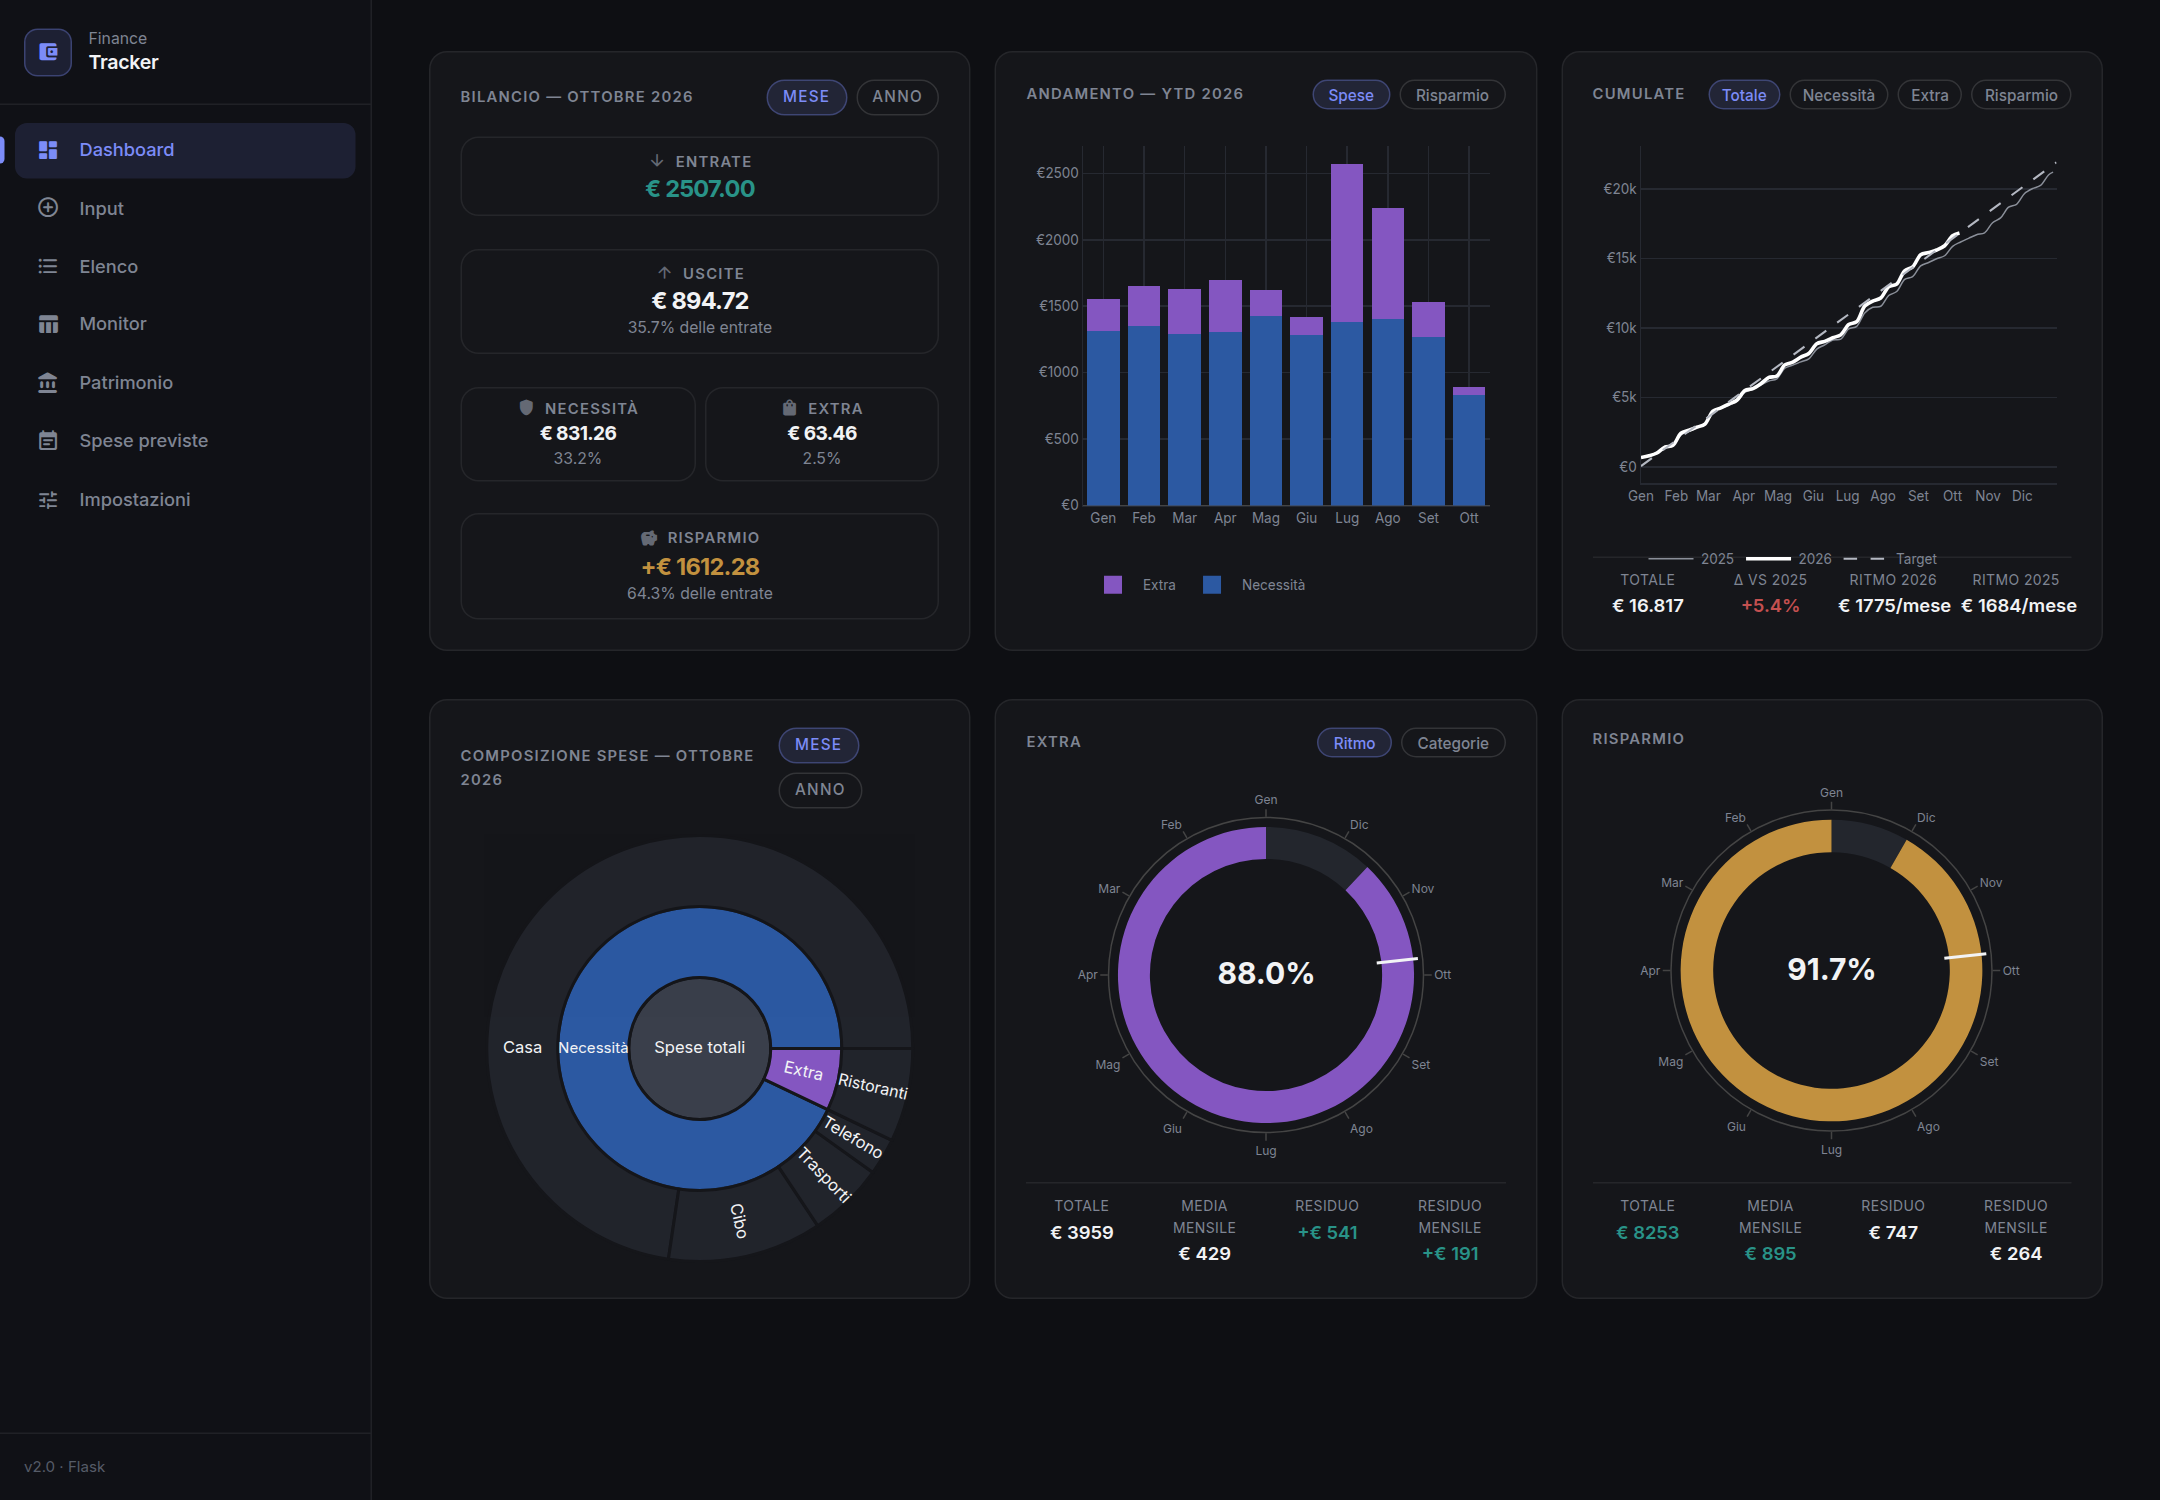
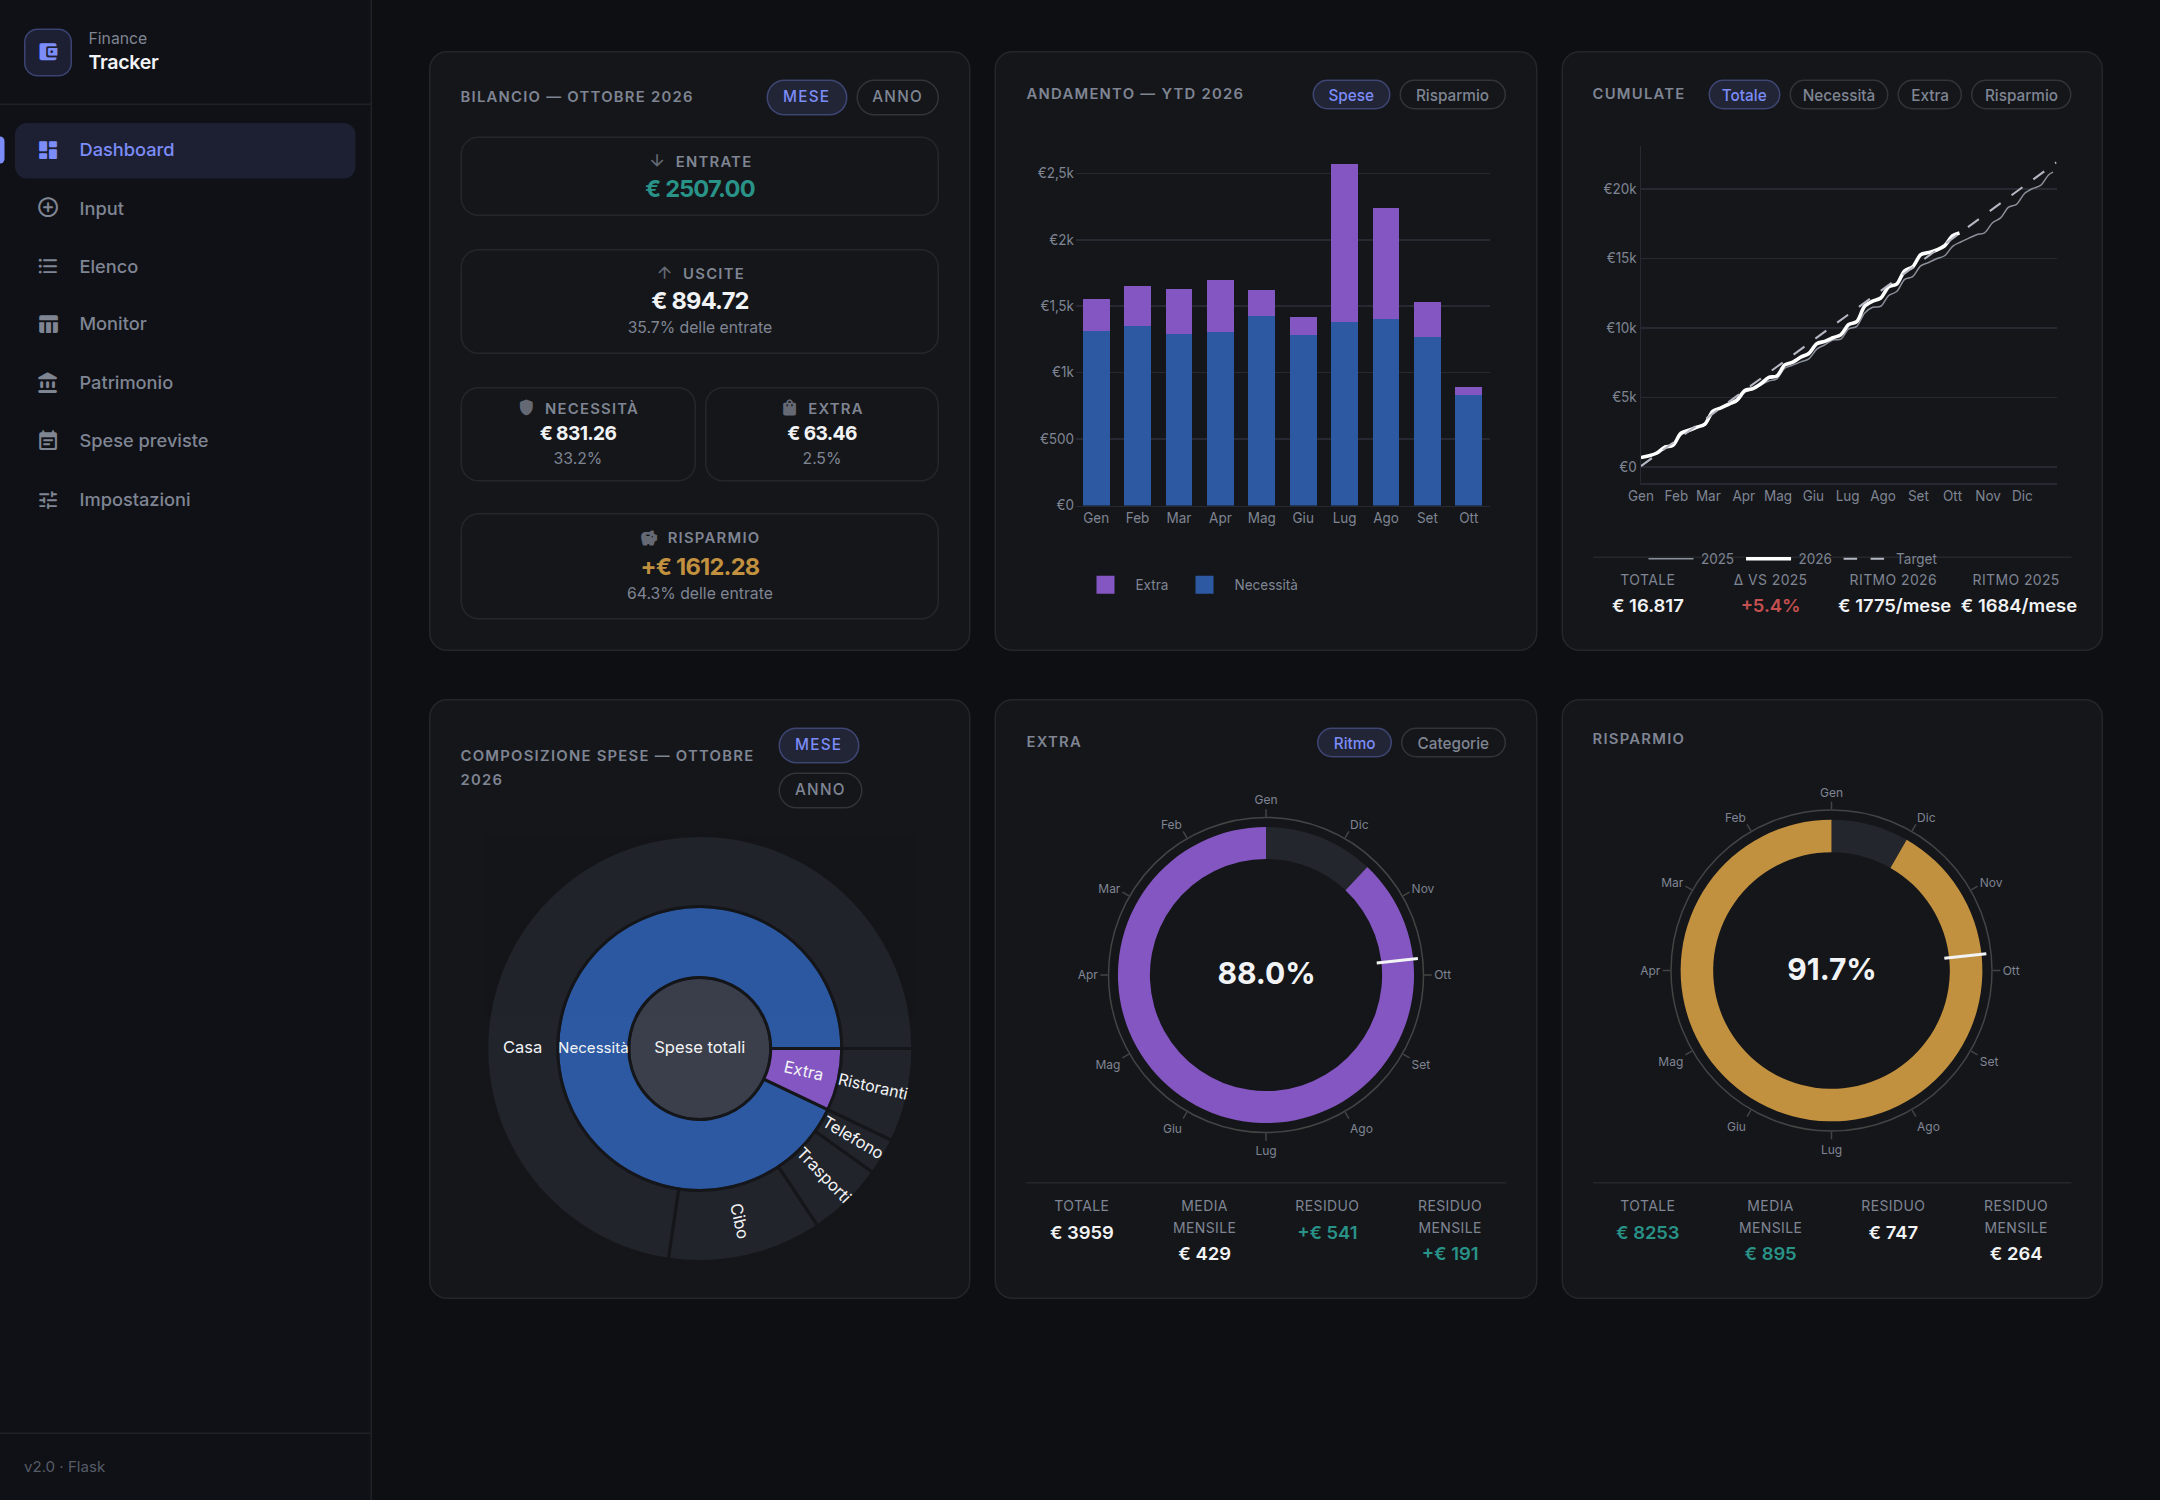
Dashboard: grafici Andamento (spese e risparmio) ed Extra › Categorie nello stile moderno e fisso della cumulata

Changed region(s): [[0.4963, 0.1227, 0.6824, 0.3987]]

diff --git a/templates/dashboard.html b/templates/dashboard.html
@@ -199,6 +199,12 @@ const BASE = {
     hovermode: 'x unified', hoverlabel: HOVER_STYLE,
 };
 
+// Grafici "fissi" in stile moderno (come la cumulata): niente zoom/pan, niente linee verticali,
+// assi senza tacche, valori compatti, nomi dei mesi in italiano.
+const STATIC_CFG = { responsive: true, displayModeBar: false, scrollZoom: false, doubleClick: false, locale: 'it' };
+const MESI_FULL = ['Gennaio','Febbraio','Marzo','Aprile','Maggio','Giugno','Luglio','Agosto','Settembre','Ottobre','Novembre','Dicembre'];
+const eurRound = v => '€ ' + Math.round(v).toLocaleString('it-IT');
+
 {% if sunburst.has_data %}
 // ── 1. Sunburst (solo spese) ─────────────────────────────────────────
 const su = {{ sunburst.sunburst_data|safe }};
@@ -306,16 +312,20 @@ function drawExtraCat() {
         el.innerHTML = '<div class="empty-state"><span class="material-icons-round">inbox</span>Nessuna spesa extra quest\'anno.</div>';
         return;
     }
+    // Barre orizzontali con il valore a fine barra, senza asse x né griglia (il numero è già
+    // sulla barra); fisso, senza zoom.
     Plotly.newPlot(el, [{
         type: 'bar', orientation: 'h', x: ec.values, y: ec.labels,
         marker: { color: _P.extra },
-        text: ec.values.map(v => '€ ' + v.toFixed(0)), textposition: 'auto',
+        text: ec.values.map(eurRound), textposition: 'outside', cliponaxis: false,
+        textfont: { size: 10, color: _PL.text },
         hovertemplate: '<b>%{y}</b><br>€ %{x:,.2f}<extra></extra>', hoverlabel: HOVER_STYLE,
     }], Object.assign({}, BASE, {
-        hovermode: 'closest', showlegend: false, margin: { l: 10, r: 10, t: 10, b: 30 },
-        xaxis: Object.assign({}, BASE.xaxis, { tickprefix: '€' }),
-        yaxis: { autorange: 'reversed', automargin: true, tickfont: { size: 10 }, gridcolor: _PL.grid, linecolor: _PL.grid },
-    }), CFG);
+        hovermode: 'closest', dragmode: false, showlegend: false, bargap: 0.4, margin: { l: 10, r: 58, t: 6, b: 6 },
+        xaxis: { visible: false, fixedrange: true, range: [0, Math.max(...ec.values) * 1.02] },
+        yaxis: { autorange: 'reversed', automargin: true, fixedrange: true, showgrid: false, ticks: '',
+                 linecolor: 'rgba(0,0,0,0)', tickfont: { size: 10 } },
+    }), STATIC_CFG);
 }
 document.querySelectorAll('[data-extra-view]').forEach(btn => {
     btn.addEventListener('click', () => {
@@ -348,24 +358,29 @@ renderRing('chart-dash-goal',
 //   • "risparmio" → solo il risparmio = entrate − spese totali del mese
 //     (mesi in rosso quando è negativo, cioè si è speso più di quanto entrato).
 const ay = {{ andamento_ytd|safe }};
+// L'asse mostra sempre i 12 mesi; l'etichetta di hover è il nome intero del mese.
+const ayX = ay.labels.map(l => MESI_FULL[+l.slice(5) - 1]);
 const AY_VIEWS = {
     spese: [
-        { type: 'bar', name: 'Necessità', x: ay.labels, y: ay.essential, marker: { color: _P.essential }, offsetgroup: 'b' },
-        { type: 'bar', name: 'Extra', x: ay.labels, y: ay.extra, marker: { color: _P.extra }, offsetgroup: 'b' },
+        { type: 'bar', name: 'Necessità', x: ayX, y: ay.essential, marker: { color: _P.essential }, offsetgroup: 'b',
+          hovertemplate: '€ %{y:.0f}<extra>Necessità</extra>' },
+        { type: 'bar', name: 'Extra', x: ayX, y: ay.extra, marker: { color: _P.extra }, offsetgroup: 'b',
+          hovertemplate: '€ %{y:.0f}<extra>Extra</extra>' },
     ],
     risparmio: [
-        { type: 'bar', name: 'Risparmio', x: ay.labels, y: ay.savings, offsetgroup: 'b',
-          marker: { color: ay.savings.map(v => v >= 0 ? _P.savings : _P.expense) } },
+        { type: 'bar', name: 'Risparmio', x: ayX, y: ay.savings, offsetgroup: 'b',
+          marker: { color: ay.savings.map(v => v >= 0 ? _P.savings : _P.expense) },
+          hovertemplate: '€ %{y:.0f}<extra>Risparmio</extra>' },
     ],
 };
 function renderAndamento(view) {
-    // Asse x fisso sui 12 mesi dell'anno, non solo fino al mese corrente.
-    const YEAR = ay.labels.length ? ay.labels[0].slice(0, 4) : String(new Date().getFullYear());
-    const allMonths = Array.from({ length: 12 }, (_, i) => `${YEAR}-${String(i + 1).padStart(2, '0')}`);
-    Plotly.react('chart-dash-ytd', AY_VIEWS[view] || AY_VIEWS.spese,
-                 Object.assign({}, BASE, { barmode: 'stack',
-                     xaxis: Object.assign({}, BASE.xaxis, { type: 'category', categoryorder: 'array',
-                         categoryarray: allMonths, tickvals: allMonths, ticktext: MESI_IT }) }), CFG);
+    Plotly.react('chart-dash-ytd', AY_VIEWS[view] || AY_VIEWS.spese, Object.assign({}, BASE, {
+        barmode: 'stack', bargap: 0.35, dragmode: false, showlegend: view === 'spese',
+        xaxis: { type: 'category', categoryorder: 'array', categoryarray: MESI_FULL, tickvals: MESI_FULL, ticktext: MESI_IT,
+                 showgrid: false, linecolor: _PL.grid, ticks: '', fixedrange: true, tickfont: { size: 9 } },
+        yaxis: { tickprefix: '€', tickformat: '.2~s', gridcolor: _PL.grid, zeroline: view === 'risparmio', zerolinecolor: _PL.text,
+                 showline: false, ticks: '', automargin: true, fixedrange: true, tickfont: { size: 9 } },
+    }), STATIC_CFG);
 }
 renderAndamento('spese');
 document.querySelectorAll('[data-and-view]').forEach(btn => {
@@ -414,7 +429,8 @@ function renderCum(view) {
         const w = weekly(s.x, s.y);
         return {
             type: 'scatter', mode: 'lines', name: s.year, x: w.x.map(doyToDate), y: w.y,
-            line: { color: col, width: cur ? 2.4 : 1.0, shape: 'spline', smoothing: 0.9 },
+            // Il risparmio ha salti (stipendio il giorno 1): meno morbidezza per non creare falsi picchi.
+            line: { color: col, width: cur ? 2.4 : 1.0, shape: 'spline', smoothing: view === 'sav' ? 0.3 : 0.9 },
             hovertemplate: '€ %{y:.0f}<extra>' + s.year + '</extra>',
         };
     });

diff --git a/scripts/screenshots.py b/scripts/screenshots.py
@@ -28,6 +28,9 @@ CLICK = "document.querySelector({sel!r}).click()"
 # name, path, width, height, [JS to run after load]
 SHOTS = [
     ('dashboard', '/', 1440, 1000, []),
+    ('dashboard-alt', '/', 1440, 1000, ["document.querySelector('[data-and-view=\"risparmio\"]').click()",
+                                        "document.querySelector('[data-extra-view=\"categorie\"]').click()",
+                                        "document.querySelector('[data-cum-view=\"sav\"]').click()"]),
     ('input', '/input', 1440, 800, []),
     ('elenco', '/elenco', 1440, 820, []),
     ('monitor-monthly', '/monitor', 1440, 1000, ["document.querySelector('#heat-period [data-v=\"5\"]').click()"]),

diff --git a/README.md b/README.md
@@ -58,6 +58,11 @@ defined.
 
 ![Dashboard](docs/screenshots/dashboard.png)
 
+The same panels with their alternative views — spending / savings trend, extra spending by category and
+cumulative savings against its target:
+
+![Dashboard – other views](docs/screenshots/dashboard-alt.png)
+
 On a phone the panels stack into a single column:
 
 <img src="docs/screenshots/mobile-dashboard.png" alt="Dashboard on mobile" width="300">
